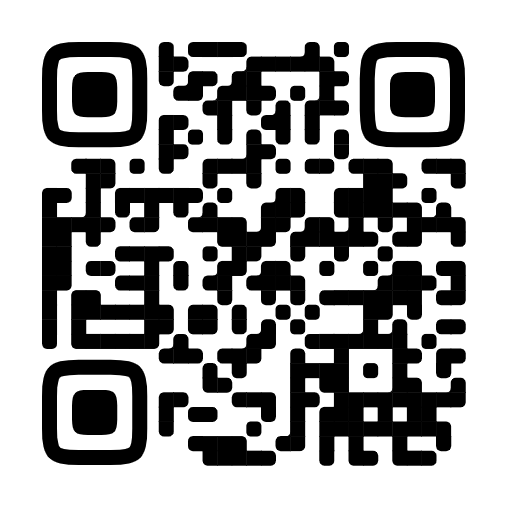
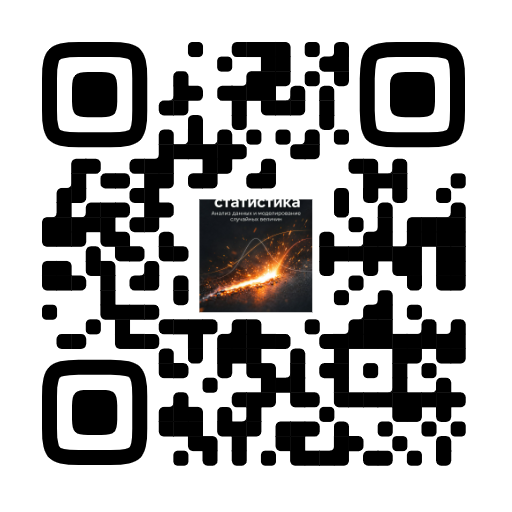
Обновлены QR-код и ссылка на PDF литературы

Changed region(s): [[0.0625, 0.0625, 0.9375, 0.9375]]

diff --git a/scripts/build_book.py b/scripts/build_book.py
@@ -209,7 +209,7 @@ def prepare():
             output_cells.append({
                 "cell_type": "markdown", "metadata": {},
                 "source": [
-                    "\nДля удобства собрали pdf литературы:\n\n",
+                    "\nДля удобства собрали [pdf](https://disk.yandex.ru/d/gn0ul4mhawWwsw) литературы:\n\n",
                     "```{image} _static/literature-qr.png\n",
                     ":alt: QR-код для доступа к PDF литературы\n",
                     ":width: 220px\n",
